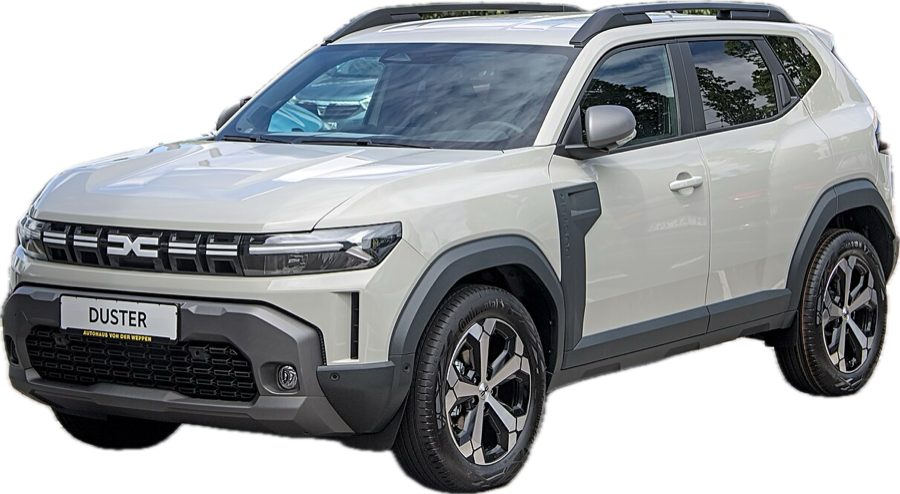
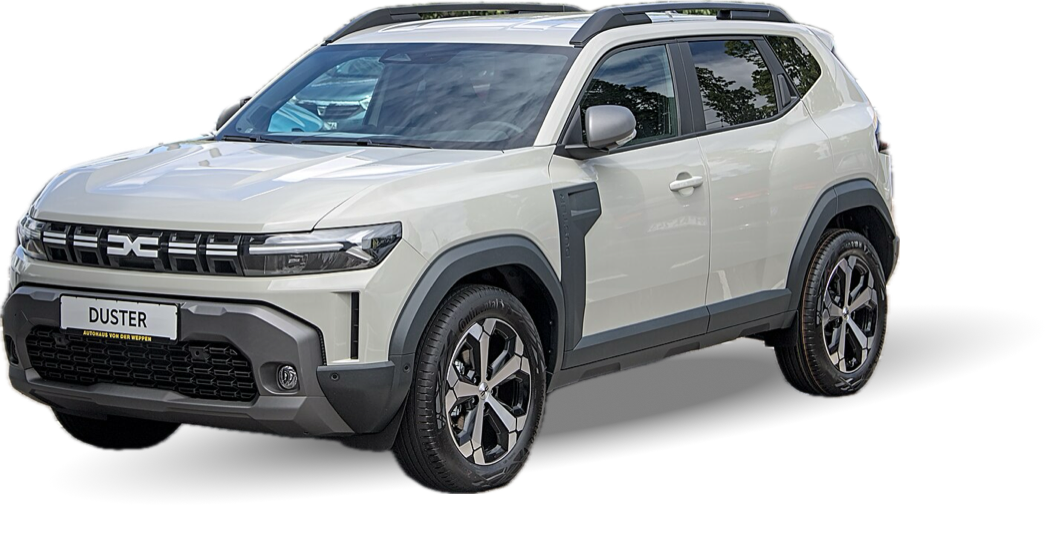
Auto: PNG con ombra inserita dall'utente, tolta l'ombra in CSS, altezza immagine uguale

diff --git a/auto.html b/auto.html
@@ -11,10 +11,9 @@
   .cars { display: grid; grid-template-columns: 1fr 1fr; gap: 16px; }
   @media (max-width: 700px) { .cars { display: flex; overflow-x: auto; scroll-snap-type: x mandatory; margin: 0 -16px; padding: 0 16px 12px; scroll-padding: 0 16px; } .car { flex: 0 0 82%; scroll-snap-align: start; } }
   .car { display: flex; flex-direction: column; overflow: hidden; border: 1px solid var(--line); border-radius: 18px; background: color-mix(in srgb, var(--land) 35%, var(--bg)); }
-  /* L'auto sta sullo sfondo della card; sotto ha un'ombra: ellisse nera, piena al centro e trasparente ai bordi, al 50%. */
-  .car-img { position: relative; padding: 32px 20px 20px; }
-  .car-img::before { content: ""; position: absolute; left: 6%; right: 6%; bottom: 0; height: 40px; border-radius: 50%; background: radial-gradient(closest-side, #000, transparent); opacity: .5; }
-  .car-photo { position: relative; display: block; width: 100%; height: auto; }
+  /* L'auto (PNG trasparente, con l'ombra già nell'immagine) sta sullo sfondo della card; l'altezza è uguale per le due card. */
+  .car-img { position: relative; aspect-ratio: 2 / 1; }
+  .car-photo { position: absolute; inset: 12px 12px 0; width: calc(100% - 24px); height: calc(100% - 12px); object-fit: contain; }
   .car-body { display: flex; flex: 1; flex-direction: column; gap: 14px; padding: 16px; }
   .car h2 { margin: 0; font-size: 20px; letter-spacing: .01em; }
   .chips { display: flex; flex-wrap: wrap; gap: 6px; }
